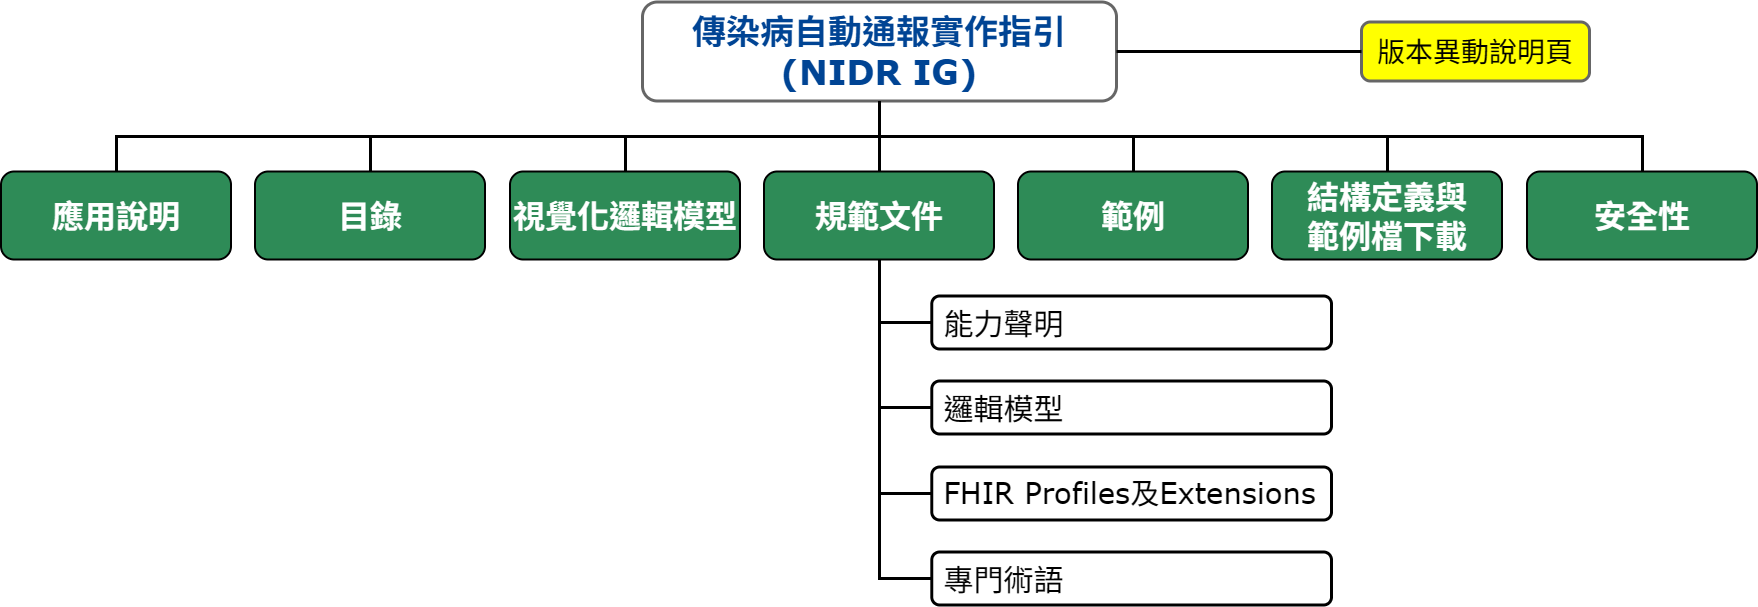
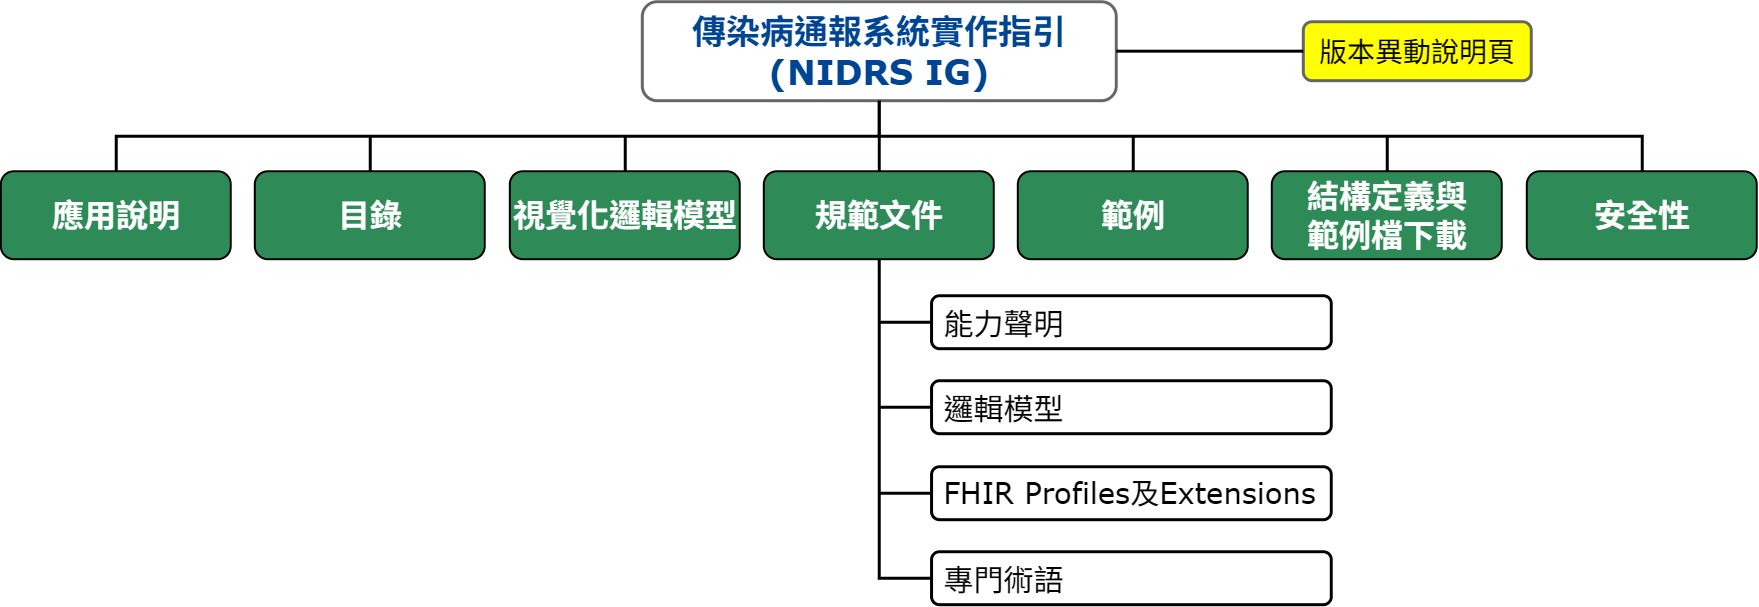
0930

diff --git a/input/pagecontent/vision.md b/input/pagecontent/vision.md
@@ -1,1 +1,34 @@
-to do
+### 傳染病通報之Bundle架構(Bundle NIDRS Reporting)
+<div  style="padding-left: 10px;"> 
+傳染病通報透過Bundle打包以下資料(相關對應表可以參照傳染病通報(Reporting)之資料模型中的<a href="StructureDefinition-ReportingModel-mappings.html">Mappings</a>)：
+<ul>
+  <li><a href="StructureDefinition-MessageHeader-NIDRS.html">通報訊息-MessageHeader NIDRS</a></li>
+  <li><a href="StructureDefinition-Organization-NIDRS.html">醫事機構-Organization NIDRS</a></li>
+  <li><a href="StructureDefinition-Practitioner-reporter-NIDRS.html">通報單登錄者-Practitioner Reporter NIDRS</a></li>
+  <li><a href="StructureDefinition-Practitioner-NIDRS.html">醫師-Practitioner NIDRSS</a></li>
+  <li><a href="StructureDefinition-DiagnosticReport-NIDRS.html">診斷報告-DiagnosticReport NIDRS</a></li>
+  <li><a href="StructureDefinition-Patient-NIDRS.html">個案資料-Patient NIDRS</a></li>
+  <li><a href="StructureDefinition-RelatedPerson-NIDRS.html">個案生母資料-RelatedPerson NIDRS</a></li>
+  <li><a href="StructureDefinition-Encounter-NIDRS.html">病患動向與通報疾病-Encounter NIDRS</a></li>
+  <li><a href="StructureDefinition-Condition-NIDRS.html">通報疾病(簡單病)-Condition NIDRS</a></li>
+  <li><a href="StructureDefinition-Observation-occupation.html">職業-Observation Occupation</a></li>
+  <li><a href="StructureDefinition-Observation-travel-history.html">旅遊史-Observation Travel History</a></li>
+  <li><a href="StructureDefinition-Observation-animal-exposure.html">動物接觸史-Observation Animal Exposure</a></li>
+  <li><a href="StructureDefinition-Observation-explore-history.html">暴露史-Observation Explore History</a></li>
+</ul>
+</div>
+
+#### Bundle架構圖
+<div  style="padding-left: 10px;"> 
+<img class="figure-img img-responsive img-rounded center-block" src="reporting.png" alt="Bundle生化檢查通報架構圖" style="display: block;margin-left: auto;margin-right: auto;width: 100%;"/>
+</div>
+
+<br>
+
+
+### 圖例說明圖
+<div  style="padding-left: 10px;"> 
+<img class="figure-img img-responsive img-rounded center-block" src="legend.png" alt="圖例說明" style="display: block;margin-left: auto;margin-right: auto;width: 90%;"/>
+</div>
+
+<br>

diff --git a/input/pagecontent/examples.md b/input/pagecontent/examples.md
@@ -39,7 +39,7 @@
 
 #### Observation
 
-- [接觸動物史](Observation-animal-exposure.html)：依據接觸動物史-Observation Animal Exposure Profile呈現接觸動物史之範例
+- [動物接觸史](Observation-animal-exposure.html)：依據動物接觸史-Observation Animal Exposure Profile呈現動物接觸史之範例
 - [旅遊史](Observation-travel-history.html)：依據旅遊史-Observation Travel History Profile呈現旅遊史之範例
 - [暴露史](Observation-explore-history.html)：依據暴露史-Observation Explore History Profile呈現暴露史之範例
 - [職業](Observation-occupation.html)：依據職業-Observation Occupation Profile呈現職業之範例

diff --git a/input/pagecontent/profiles-and-extensions.md b/input/pagecontent/profiles-and-extensions.md
@@ -32,7 +32,7 @@
 #### Observation
 - [職業-Observation Occupation](StructureDefinition-Observation-occupation.html)
 - [旅遊史-Observation Travel History](StructureDefinition-Observation-travel-history.html)
-- [接觸動物史-Observation Animal Exposure](StructureDefinition-Observation-animal-exposure.html)
+- [動物接觸史-Observation Animal Exposure](StructureDefinition-Observation-animal-exposure.html)
 - [暴露史-Observation Explore History](StructureDefinition-Observation-explore-history.html)
 
 
